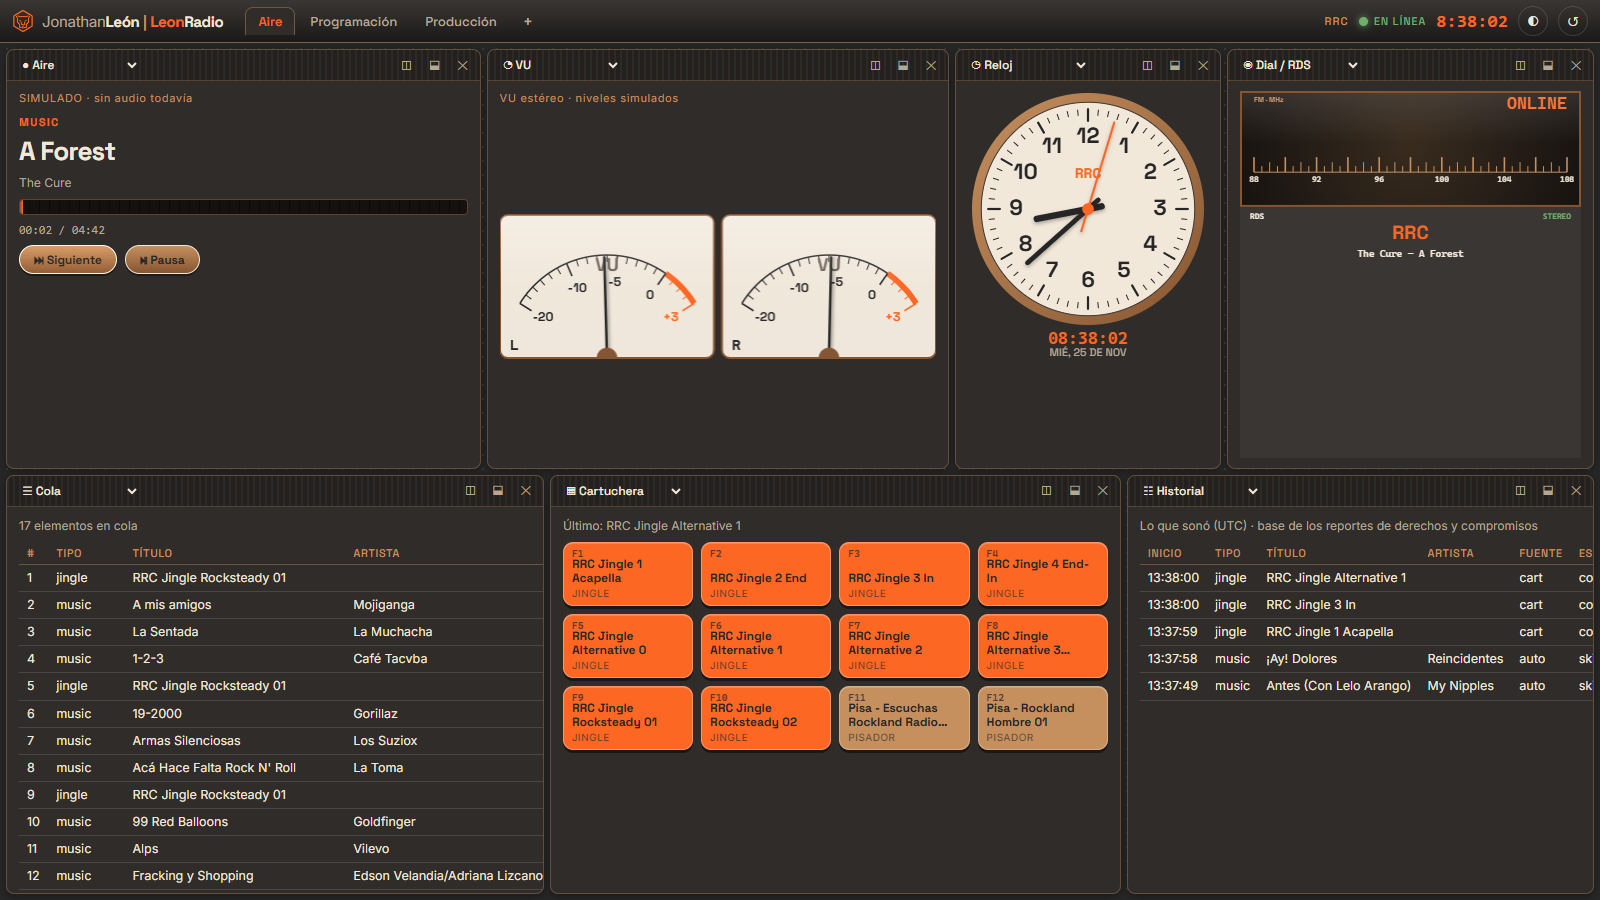
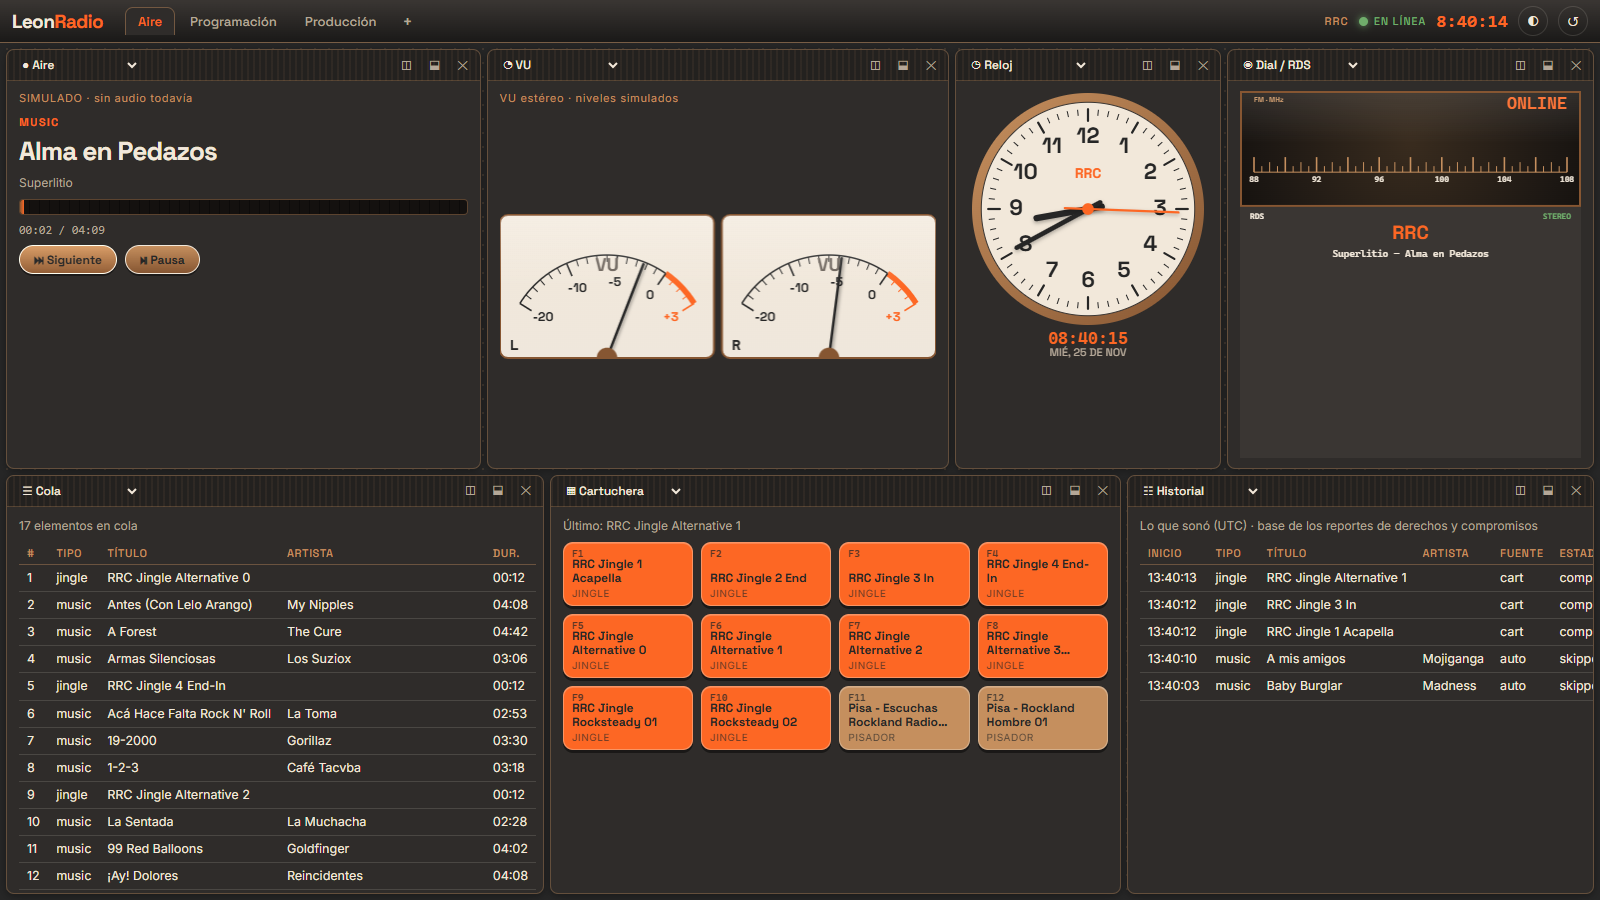
UI: quita la marca Jonathan León; el software es LeonRadio
- index.html: sin isotipo ni wordmark de Jonathan León, solo «LeonRadio»
- NOTICE y READMEs: la marca solo queda en ui/prototypes/ (referencia histórica)
- capturas regeneradas

diff --git a/ui/src/index.html b/ui/src/index.html
@@ -8,13 +8,8 @@
 <link rel="stylesheet" href="css/app.css">
 </head>
 <body>
-<svg width="0" height="0" style="position:absolute" aria-hidden="true"><defs><symbol id="jl-iso" viewBox="220.189 220.189 583.623 583.623">
-        <path fill="currentColor" d="M735.074 640.792 L512.001 769.584 L288.927 640.792 L288.927 383.209 L512.001 254.417 L735.074 383.209 Z M755.747 357.124 L524.254 223.472 C520.463 221.283 516.231 220.189 512.001 220.189 C507.769 220.189 503.538 221.283 499.747 223.472 L268.254 357.124 C260.672 361.502 256.001 369.593 256.001 378.348 L256.001 645.653 C256.001 654.408 260.672 662.499 268.254 666.877 L499.747 800.529 C503.538 802.717 507.769 803.812 512.001 803.812 C516.231 803.812 520.463 802.717 524.254 800.529 L755.747 666.877 C763.33 662.499 768.001 654.408 768.001 645.653 L768.001 378.348 C768.001 369.593 763.33 361.502 755.747 357.124"/>
-        <path fill="currentColor" d="M560.122 408.953 C576.693 411.007 590.705 412.886 590.845 412.904 L591 412.925 C596.607 413.566 602.265 412.17 606.926 408.985 L648.927 380.293 C651.705 378.395 655.452 378.74 657.837 381.114 L668.619 391.849 C670.579 393.8 671.211 396.73 670.228 399.315 L645.318 464.857 C643.566 469.467 643.306 474.422 644.563 479.19 L657.27 527.354 C657.938 529.888 657.152 532.558 655.219 534.325 L617.047 569.201 C614.555 571.477 612.547 574.326 611.238 577.437 L582.035 675.918 C580.587 679.364 576.696 681.07 573.181 679.798 L524.885 662.346 C522.114 661.345 520.252 658.692 520.252 655.745 L520.252 633.927 C520.252 631.296 521.702 628.909 524.037 627.697 L545.521 616.548 C550.669 613.877 554.632 609.416 556.678 603.988 L580.446 511.909 C581.206 509.893 582.818 508.359 584.87 507.701 L609.268 499.878 C613.598 498.49 615.981 493.855 614.594 489.526 C613.474 486.032 610.239 483.806 606.757 483.806 C605.925 483.806 605.077 483.933 604.242 484.201 L579.843 492.025 C572.977 494.226 567.583 499.358 565.041 506.103 L541.737 596.948 L482.262 596.948 L458.959 506.103 C456.416 499.358 451.021 494.226 444.156 492.025 L419.758 484.201 C415.428 482.812 410.794 485.197 409.405 489.526 C408.018 493.855 410.401 498.49 414.73 499.878 L439.129 507.701 C441.181 508.359 442.794 509.893 443.554 511.909 L467.322 603.988 C469.367 609.416 473.329 613.876 478.478 616.548 L499.962 627.697 C502.297 628.909 503.747 631.296 503.747 633.927 L503.747 655.745 C503.747 658.692 501.886 661.345 499.114 662.346 L450.818 679.798 C447.302 681.07 443.412 679.364 441.963 675.917 L412.761 577.437 C411.453 574.326 409.444 571.477 406.953 569.201 L368.78 534.325 C366.847 532.558 366.061 529.888 366.729 527.354 L379.436 479.189 C380.694 474.422 380.433 469.466 378.681 464.857 L353.771 399.315 C352.789 396.73 353.42 393.8 355.38 391.849 L366.162 381.114 C368.547 378.74 372.294 378.394 375.072 380.293 L417.051 408.971 C421.735 412.17 427.419 413.565 433.052 412.9 L433.211 412.88 C433.338 412.862 446.108 411.1 461.518 409.129 C488.652 405.655 532.886 405.577 560.122 408.953 M459.428 392.799 C444.638 394.691 432.261 396.391 431.055 396.557 C429.39 396.736 427.719 396.32 426.337 395.376 L384.359 366.699 C375.063 360.349 362.525 361.504 354.547 369.447 L343.765 380.181 C337.208 386.708 335.095 396.515 338.382 405.164 L363.292 470.707 C363.815 472.084 363.894 473.565 363.518 474.991 L350.811 523.154 C348.574 531.63 351.205 540.567 357.676 546.479 L395.849 581.355 C396.593 582.036 397.192 582.887 397.584 583.817 L426.787 682.297 C431.635 693.829 444.648 699.532 456.413 695.281 L504.71 677.829 C507.428 676.847 509.885 675.389 512 673.572 C514.115 675.389 516.571 676.847 519.29 677.829 L567.587 695.281 C570.222 696.233 572.917 696.686 575.571 696.686 C584.769 696.685 593.451 691.247 597.212 682.298 L626.416 583.817 C626.807 582.887 627.406 582.036 628.151 581.355 L666.323 546.479 C672.794 540.567 675.425 531.631 673.189 523.155 L660.481 474.991 C660.105 473.565 660.184 472.084 660.707 470.707 L685.617 405.164 C688.904 396.515 686.791 386.709 680.234 380.181 L669.452 369.447 C661.474 361.504 648.935 360.349 639.641 366.699 L597.64 395.391 C596.264 396.332 594.601 396.754 592.941 396.575 C591.687 396.408 578.094 394.592 562.147 392.615 C533.776 389.099 487.696 389.181 459.428 392.799"/>
-        <path fill="currentColor" d="M531.763 697.427 C527.012 700.184 519.285 703.431 509.347 703.339 C499.848 703.236 492.432 700.067 487.882 697.427 C485.262 695.906 481.903 696.799 480.382 699.419 C478.861 702.041 479.752 705.399 482.373 706.92 C488.064 710.222 497.34 714.185 509.227 714.314 C509.429 714.316 509.627 714.318 509.827 714.318 C521.953 714.318 531.426 710.312 537.272 706.92 C539.893 705.4 540.785 702.041 539.264 699.42 C537.743 696.799 534.384 695.907 531.763 697.427"/>
-      </symbol></defs></svg>
 <div class="top">
-  <div class="brand"><svg aria-hidden="true"><use href="#jl-iso"/></svg><span><i>Jonathan</i>León <span style="color:var(--c-bronze)">|</span> <b>Leon</b>Radio</span></div>
+  <div class="brand"><span>Leon<b>Radio</b></span></div>
   <div class="tabs" id="tabs" role="tablist" aria-label="Workspaces"></div>
   <div class="tools">
     <span class="station" id="station"></span>

diff --git a/ui/src/css/app.css b/ui/src/css/app.css
@@ -14,9 +14,7 @@ button,select{font:inherit;color:inherit}
 .top{display:flex;align-items:center;gap:14px;padding:6px 12px;background:linear-gradient(var(--c-g700),var(--c-g900));
   border-bottom:1px solid rgba(197,143,94,.45);flex:none}
 :root[data-theme="light"] .top{background:linear-gradient(#e3d8c9,#d6c9b8);color:var(--c-ink)}
-.brand{display:flex;align-items:center;gap:8px;font:700 15px var(--display);letter-spacing:-.02em;white-space:nowrap}
-.brand svg{width:22px;height:22px;color:var(--c-orange)}
-.brand i{font:400 15px var(--body);font-style:normal;color:var(--ink-2)}
+.brand{display:flex;align-items:center;font:700 19px var(--display);letter-spacing:-.03em;white-space:nowrap}
 .brand b{color:var(--accent)}
 .tabs{display:flex;gap:2px;margin-left:8px;flex:1;min-width:0;overflow-x:auto}
 .tab{padding:5px 12px;border:1px solid transparent;border-bottom:0;border-radius:8px 8px 0 0;background:transparent;cursor:pointer;

diff --git a/ui/src/css/tokens.css b/ui/src/css/tokens.css
@@ -1,5 +1,4 @@
-/* Tokens de marca — Jonathan León / LeonRadio.
-   Fuente: Manual de marca. Tipografías: Space Grotesk (display) + Inter (texto).
+/* Tokens de diseño de LeonRadio (paleta y tipografías). Tipografías: Space Grotesk (display) + Inter (texto).
    Regla: la UI solo usa estas variables; nada de colores sueltos. */
 :root {
   --c-carbon: #262626;

diff --git a/NOTICE.md b/NOTICE.md
@@ -1,8 +1,11 @@
-# Aviso de marca
+# Avisos
 
-El isotipo hexagonal, el logotipo, el nombre «Jonathan León» y el manual de marca son
-© Jonathan León. Todos los derechos reservados. No se otorga licencia sobre ellos.
-Las maquetas en `prototypes/` incluyen el isotipo solo como parte de la interfaz de referencia;
-si reutilizas la UI, sustituye la marca por la tuya.
+**Marca «Jonathan León».** El isotipo hexagonal, el logotipo, el nombre «Jonathan León» y su manual de marca
+son © Jonathan León, todos los derechos reservados. No se otorga licencia sobre ellos.
+La interfaz de LeonRadio **no** usa esa marca. Solo aparece en las maquetas históricas de `ui/prototypes/`,
+que se conservan como referencia de diseño; no las reutilices fuera de este repositorio.
 
-El nombre y el audio de «RRC – Rockland Radio Colombia» pertenecen a sus titulares.
+**RRC – Rockland Radio Colombia.** El nombre y el audio de la emisora pertenecen a sus titulares.
+El audio no se versiona.
+
+La paleta de color y las tipografías (Space Grotesk, Inter; licencia SIL OFL) de la interfaz son de uso libre dentro de este proyecto.

diff --git a/README.md b/README.md
@@ -56,6 +56,6 @@ La UI tiene áreas (◫ ⬓ ✕, selector de editor), workspaces (pestañas; dob
 ## Licencia
 - Código (`core/`, `ui/`): **GPL-3.0-or-later** (`core/LICENSE`, `ui/LICENSE`).
 - Documentación y diseño: **CC BY-SA 4.0** (`LICENSE`).
-- Marca «Jonathan León»: derechos reservados — ver [NOTICE.md](NOTICE.md).
+- Las maquetas históricas de `ui/prototypes/` incluyen la marca «Jonathan León» (derechos reservados) — ver [NOTICE.md](NOTICE.md). La interfaz actual no la usa.
 
 El audio de las emisoras no se versiona.

diff --git a/docs/editores-y-addons.md b/docs/editores-y-addons.md
@@ -75,7 +75,7 @@ def unregister(): lr.unregister_editor(ClimaEditor)
 ## Licencias
 - **Código (`core/`, `ui/`, addons incluidos):** GPL-3.0-or-later, como Blender. Los addons que usan la API quedan abiertos.
 - **Documentación y diseño:** CC BY-SA 4.0.
-- **Marca «Jonathan León»:** derechos reservados (ver `NOTICE.md`).
+- **Marca «Jonathan León»:** derechos reservados; no se usa en la interfaz (ver `NOTICE.md`).
 
 ## Fases
 F0.5 construye: gestor de áreas y workspaces, registro de editores y comandos, bus de eventos,

diff --git a/ui/README.md b/ui/README.md
@@ -20,4 +20,4 @@ vintage (VU, reloj, dial/RDS, cartuchera) portados como componentes JS.
 
 ## Licencia
 Código: GPL-3.0-or-later (`LICENSE`). Diseño y documentación: CC BY-SA 4.0 (`../LICENSE`).
-**Excepción:** isotipo, logotipo y manual de marca «Jonathan León», © Jonathan León, derechos reservados (ver `../NOTICE.md`).
+**Aviso:** las maquetas de `prototypes/` incluyen la marca «Jonathan León» (derechos reservados, ver `../NOTICE.md`); la interfaz en `src/` no la usa.
